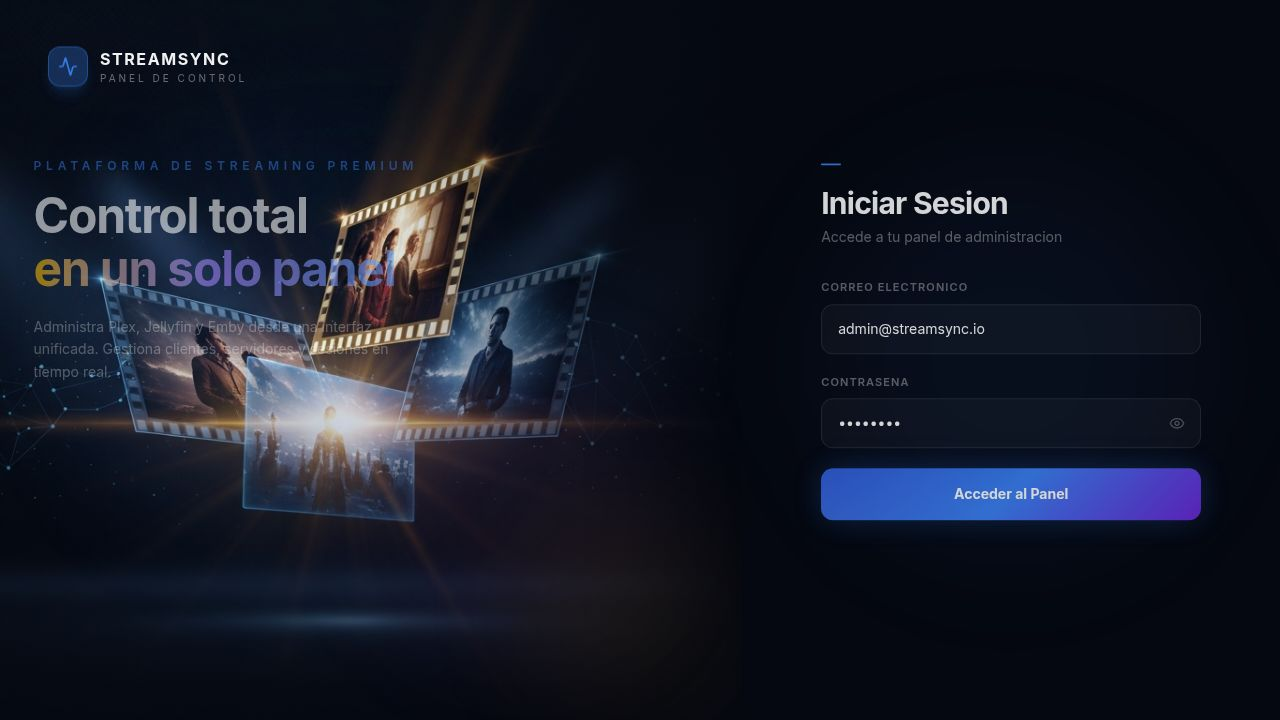
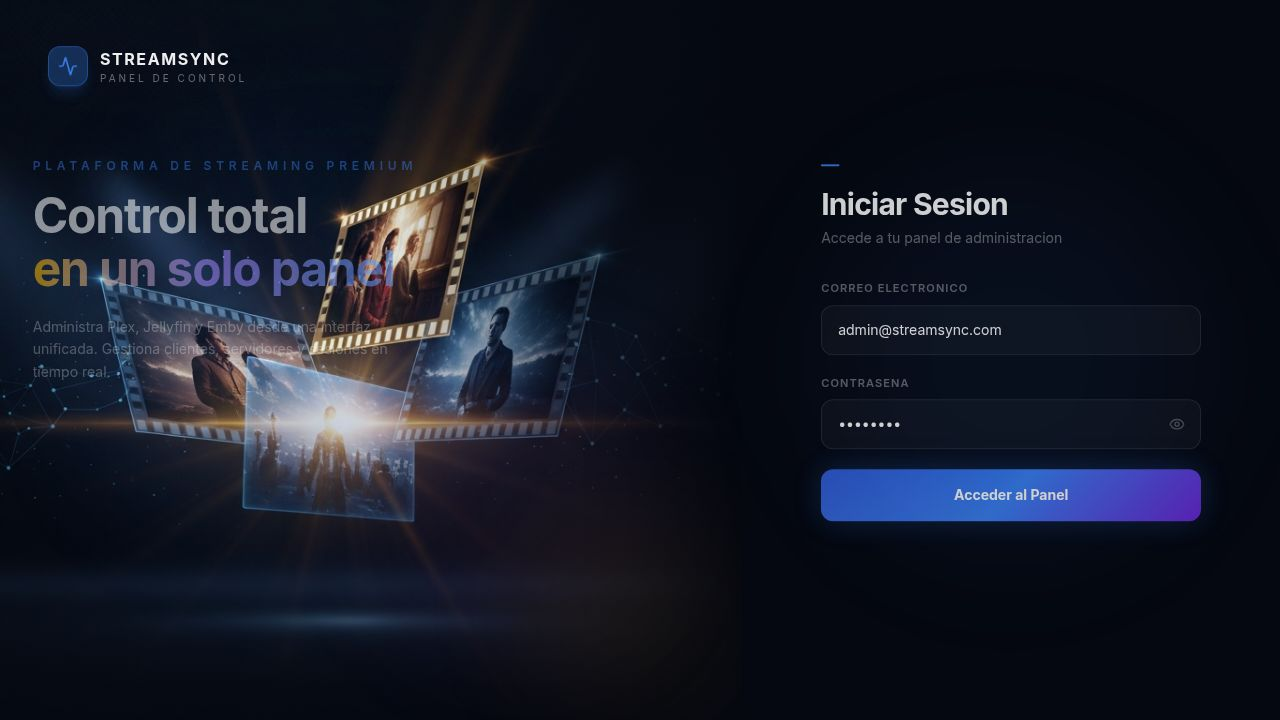
Update login credentials and system display for admin access
Fix incorrect admin email in login form and system help text from 'admin@streamsync.io' to 'admin@streamsync.com'.

Replit-Commit-Author: Agent
Replit-Commit-Session-Id: 2f1a0f94-5273-46e5-8625-b6cba83b3d31
Replit-Commit-Checkpoint-Type: full_checkpoint
Replit-Commit-Event-Id: 6f944a85-b58b-4b89-bf3a-770fffec3193
Replit-Commit-Screenshot-Url: https://storage.googleapis.com/screenshot-production-us-central1/dd2f8985-e543-4df4-8584-ca120cbbc0d0/2f1a0f94-5273-46e5-8625-b6cba83b3d31/JKGBGCq
Replit-Helium-Checkpoint-Created: true

diff --git a/artifacts/streamsync-panel/src/pages/Login.tsx b/artifacts/streamsync-panel/src/pages/Login.tsx
@@ -64,7 +64,7 @@ export default function Login() {
   const [, setLocation] = useLocation();
   const { login } = useAuth();
   const loginMutation = useLogin();
-  const [email, setEmail] = useState("admin@streamsync.io");
+  const [email, setEmail] = useState("admin@streamsync.com");
   const [password, setPassword] = useState("admin123");
   const [showPass, setShowPass] = useState(false);
   const [error, setError] = useState("");
@@ -356,7 +356,7 @@ export default function Login() {
           >
             <div className="flex-1 h-px bg-white/5" />
             <p className="text-[11px] text-white/20 whitespace-nowrap">
-              admin@streamsync.io / admin123
+              admin@streamsync.com / admin123
             </p>
             <div className="flex-1 h-px bg-white/5" />
           </motion.div>
